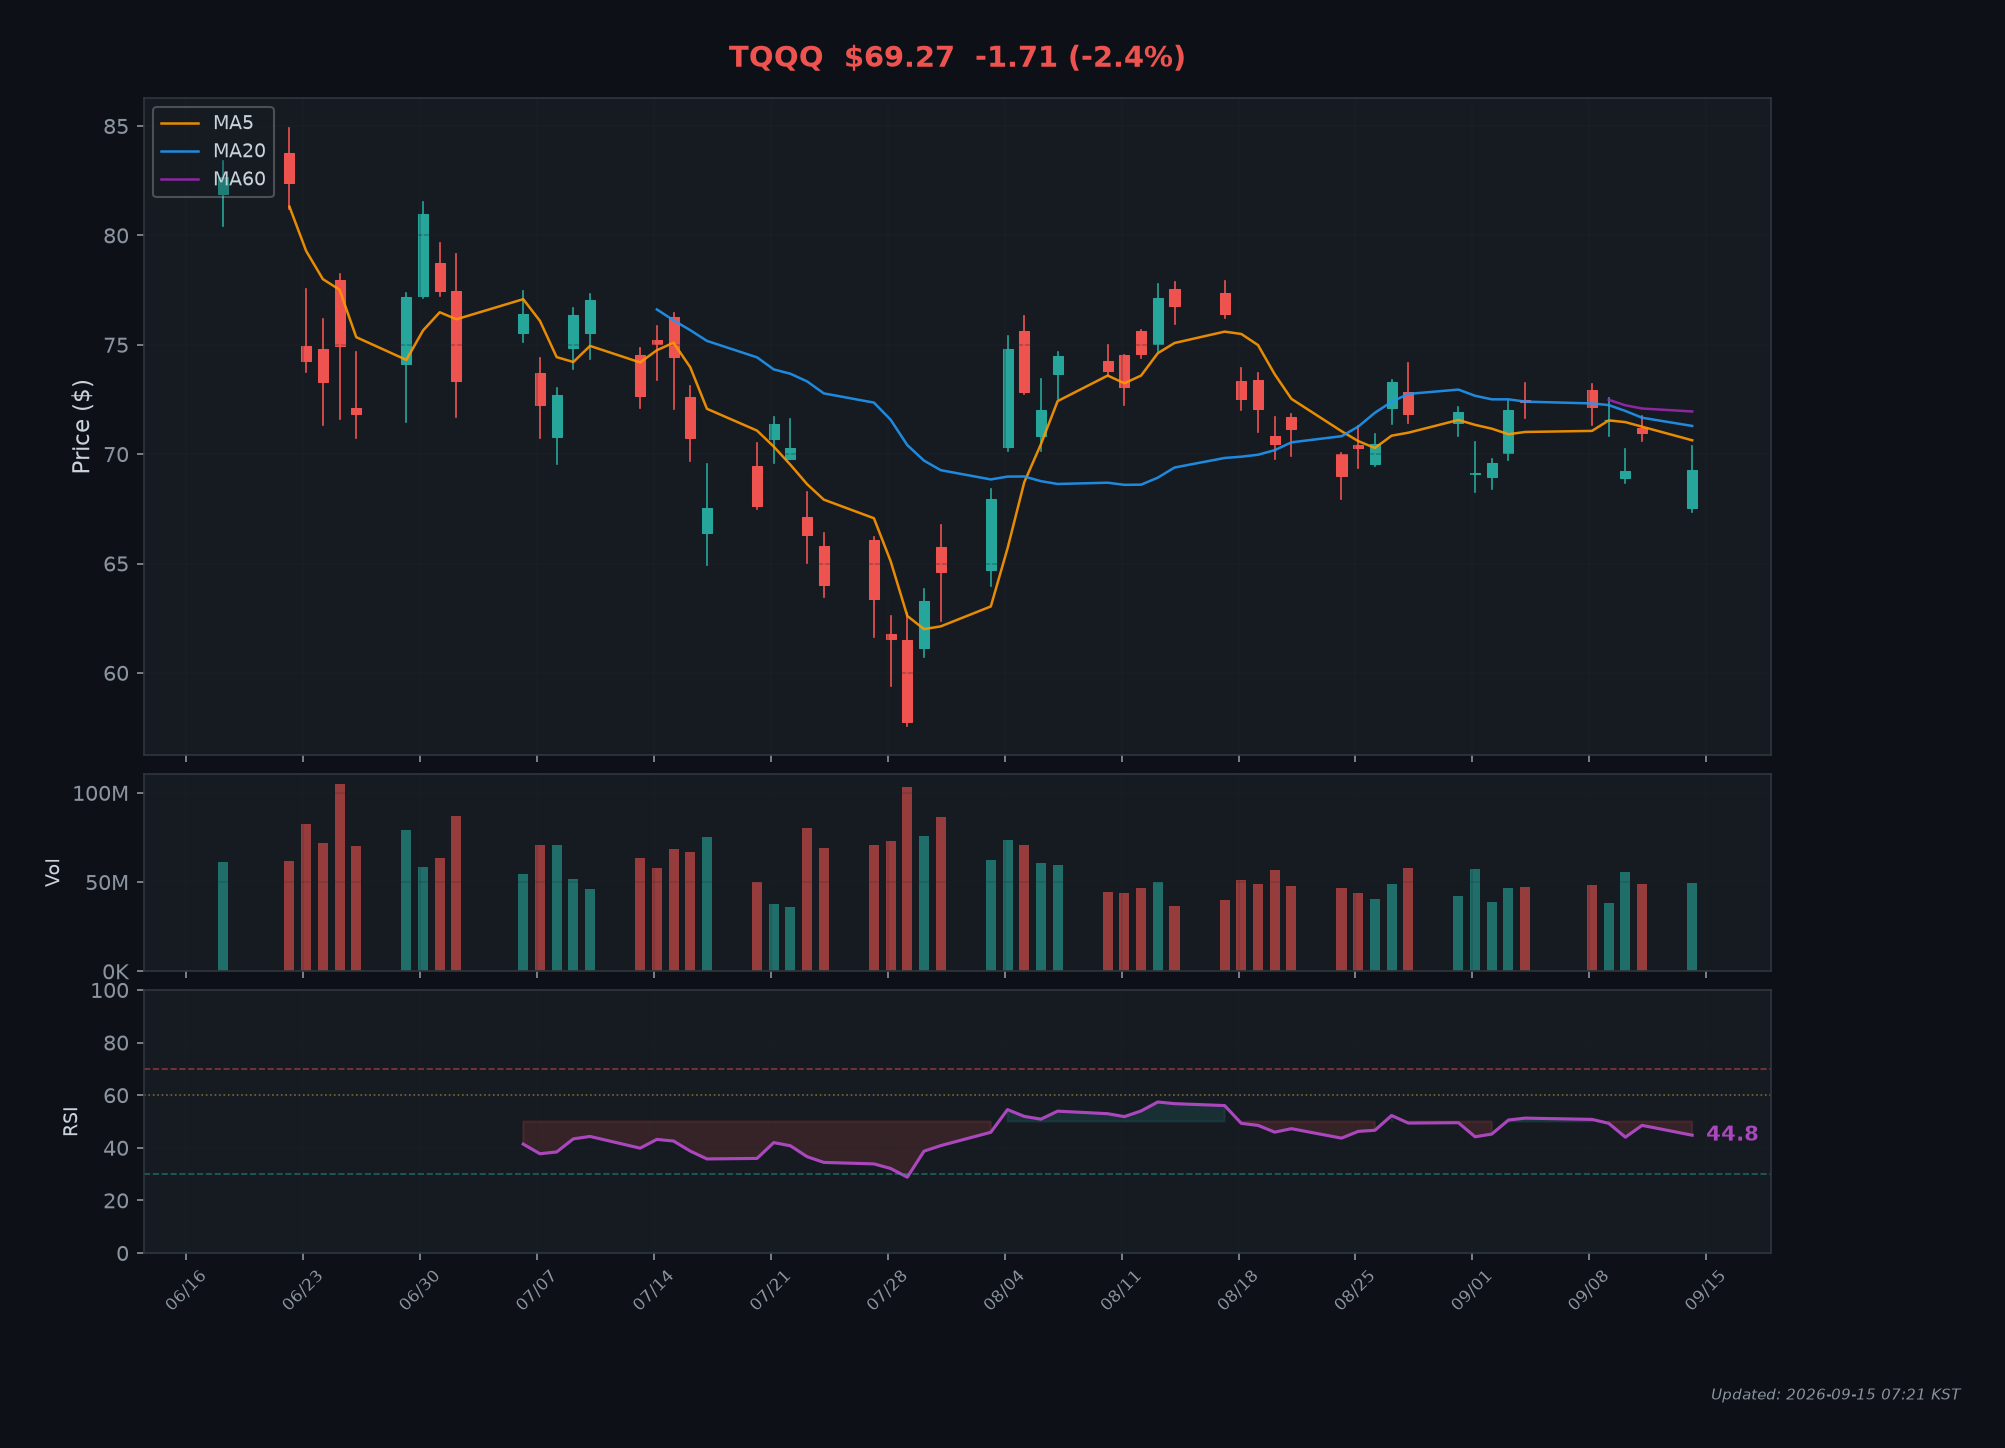
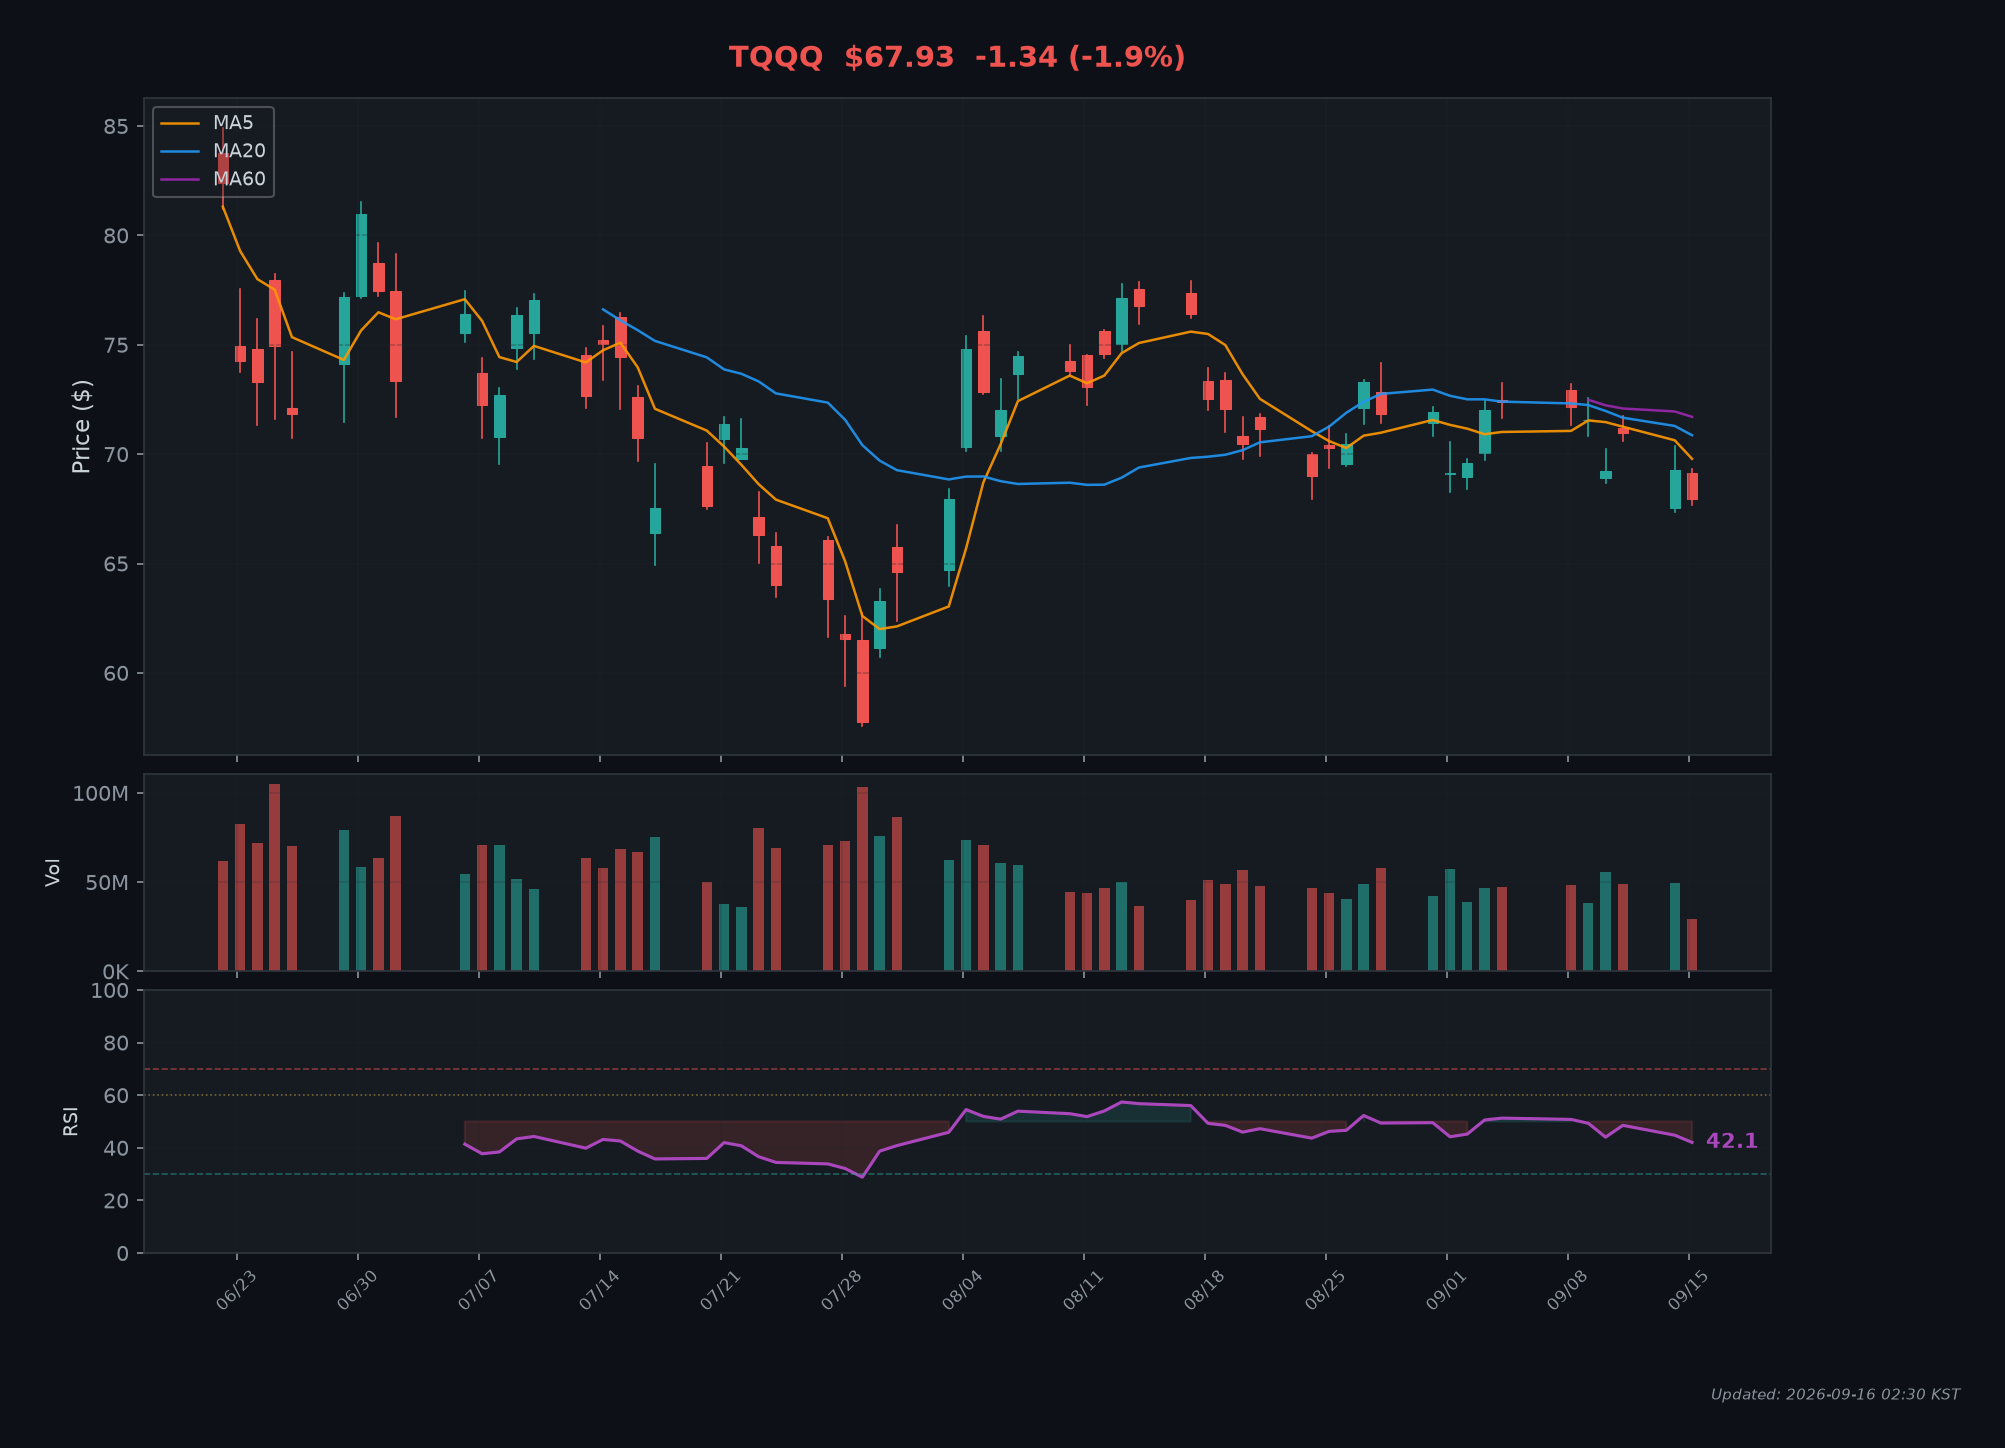
🎯 일일 추천 리포트 2026-09-15

diff --git a/README.md b/README.md
@@ -15,19 +15,19 @@
 | 항목 | 상태 |
 |------|------|
 | 미국 시장 | 🟢 개장중 |
-| 현재 시간 (ET) | 2026-09-14 14:23:12 ET |
-| 요일 | 월요일 |
-| 마지막 갱신 | 2026-09-15 03:23 KST |
+| 현재 시간 (ET) | 2026-09-15 13:31:00 ET |
+| 요일 | 화요일 |
+| 마지막 갱신 | 2026-09-16 02:31 KST |
 
 ---
 
 ## 🎯 오늘의 매수/매도 추천
 
-> 📅 **2026-09-15** 기준 추천 내역
+> 📅 **2026-09-16** 기준 추천 내역
 
 ### 💹 TQQQ
 
-**현재가:** $70.1 📉 -1.2% | **RSI:** 46.52 | **거래량:** 42,903,153
+**현재가:** $67.93 📉 -1.9% | **RSI:** 42.07 | **거래량:** 29,123,867
 
 #### 📊 시뮬레이션 상태
 
@@ -44,13 +44,13 @@
 
 #### 💡 추천 요약
 
-> 🟢 1회차 진입 신호! RSI=46.52 | 시장가 매수 추천 ($100)
+> 🟢 1회차 진입 신호! RSI=42.07 | 시장가 매수 추천 ($100)
 
 #### 🛒 매수 주문
 
 | 방식 | 주문가 | 금액 | 예상 수량 | 비고 |
 |------|--------|------|-----------|------|
-| 🟢 시장가 (1회차 첫 매수) | $70.1 | $100.0 | 1.4265주 | 장중 아무 시점에 1회차 분량 시장가 매수 |
+| 🟢 시장가 (1회차 첫 매수) | $67.93 | $100.0 | 1.4721주 | 장중 아무 시점에 1회차 분량 시장가 매수 |
 
 #### 📉 차트
 
@@ -60,7 +60,7 @@
 
 ### 💹 SOXL
 
-**현재가:** $104.25 📉 -14.4% | **RSI:** 40.09 | **거래량:** 75,244,536
+**현재가:** $101.67 📈 +0.5% | **RSI:** 39.31 | **거래량:** 43,779,288
 
 #### 📊 시뮬레이션 상태
 
@@ -77,13 +77,13 @@
 
 #### 💡 추천 요약
 
-> 🟢 1회차 진입 신호! RSI=40.09 | 시장가 매수 추천 ($100)
+> 🟢 1회차 진입 신호! RSI=39.31 | 시장가 매수 추천 ($100)
 
 #### 🛒 매수 주문
 
 | 방식 | 주문가 | 금액 | 예상 수량 | 비고 |
 |------|--------|------|-----------|------|
-| 🟢 시장가 (1회차 첫 매수) | $104.25 | $100.0 | 0.9592주 | 장중 아무 시점에 1회차 분량 시장가 매수 |
+| 🟢 시장가 (1회차 첫 매수) | $101.67 | $100.0 | 0.9835주 | 장중 아무 시점에 1회차 분량 시장가 매수 |
 
 #### 📉 차트
 
@@ -115,6 +115,6 @@
 
 ---
 
-🤖 *자동 생성됨 | 2026-09-15 03:23 KST | GitHub Actions*
+🤖 *자동 생성됨 | 2026-09-16 02:31 KST | GitHub Actions*
 
 ⚠ **면책 조항**: 본 시스템은 교육/참고 목적이며, 실제 투자 손익에 대한 책임은 사용자에게 있습니다.
